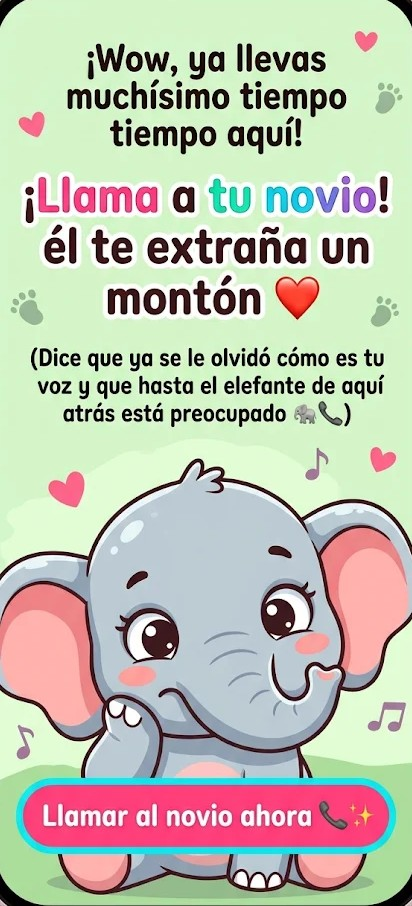
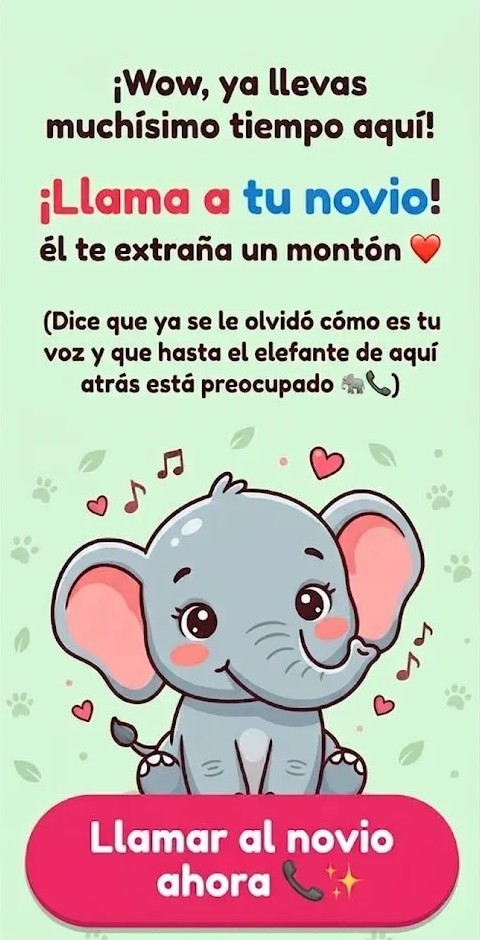
New surprise image (fixed text), tap area matches the button

diff --git a/src/components/CallBreak.jsx b/src/components/CallBreak.jsx
@@ -61,9 +61,9 @@ export default function CallBreak() {
       <div className="relative inline-block animate-pop overflow-hidden rounded-[32px] shadow-2xl">
         <img src="/call-surprise.jpg" alt="¡Wow, ya llevas muchísimo tiempo aquí! ¡Llama a tu novio! Él te extraña un montón" className="block max-h-[80dvh] w-auto max-w-full" />
         {href ? (
-          <a href={href} target="_blank" rel="noreferrer" onClick={close} aria-label="Llamar al novio ahora" className="absolute left-[4%] right-[4%] top-[86%] h-[8%] animate-pulse rounded-full ring-4 ring-white/0 transition active:scale-95" />
+          <a href={href} target="_blank" rel="noreferrer" onClick={close} aria-label="Llamar al novio ahora" className="absolute left-[5%] right-[5%] top-[84%] h-[14%] animate-pulse rounded-full ring-4 ring-white/0 transition active:scale-95" />
         ) : (
-          <button onClick={close} aria-label="Cerrar" className="absolute left-[4%] right-[4%] top-[86%] h-[8%] rounded-full" />
+          <button onClick={close} aria-label="Cerrar" className="absolute left-[5%] right-[5%] top-[84%] h-[14%] rounded-full" />
         )}
       </div>
       <button onClick={close} className="h-10 rounded-full px-5 text-sm font-semibold text-white/90 hover:bg-white/10">
